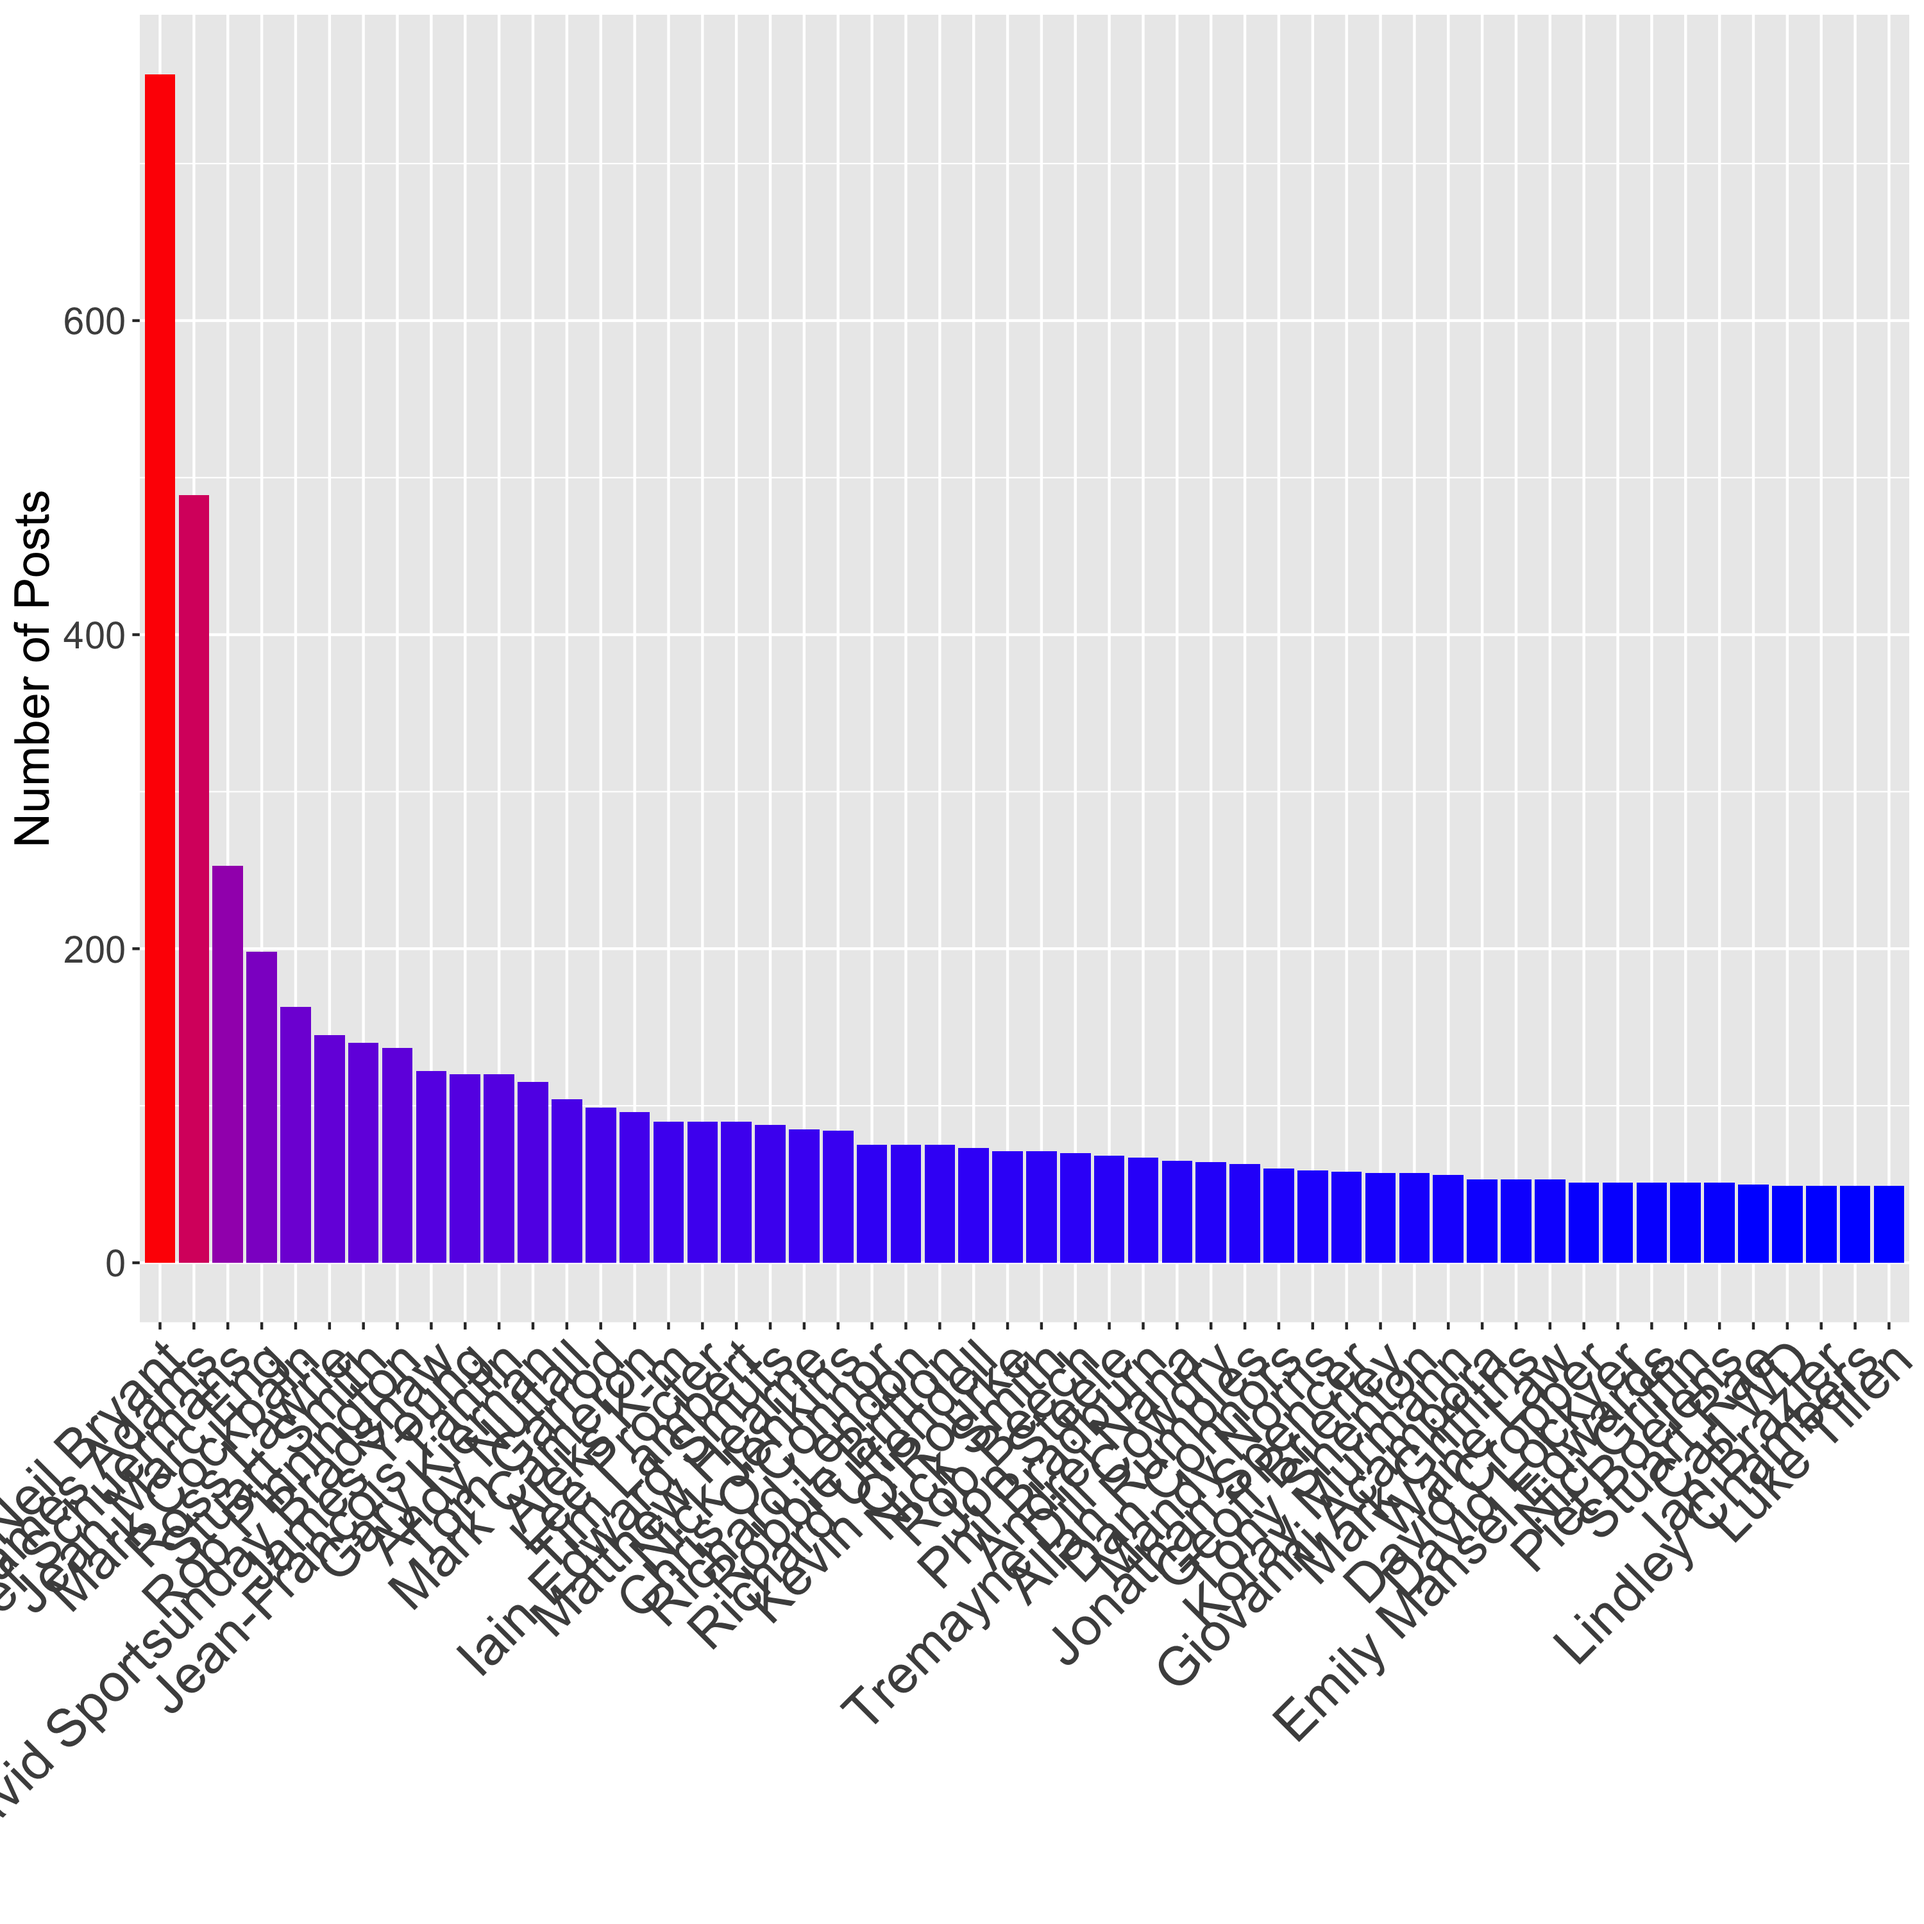
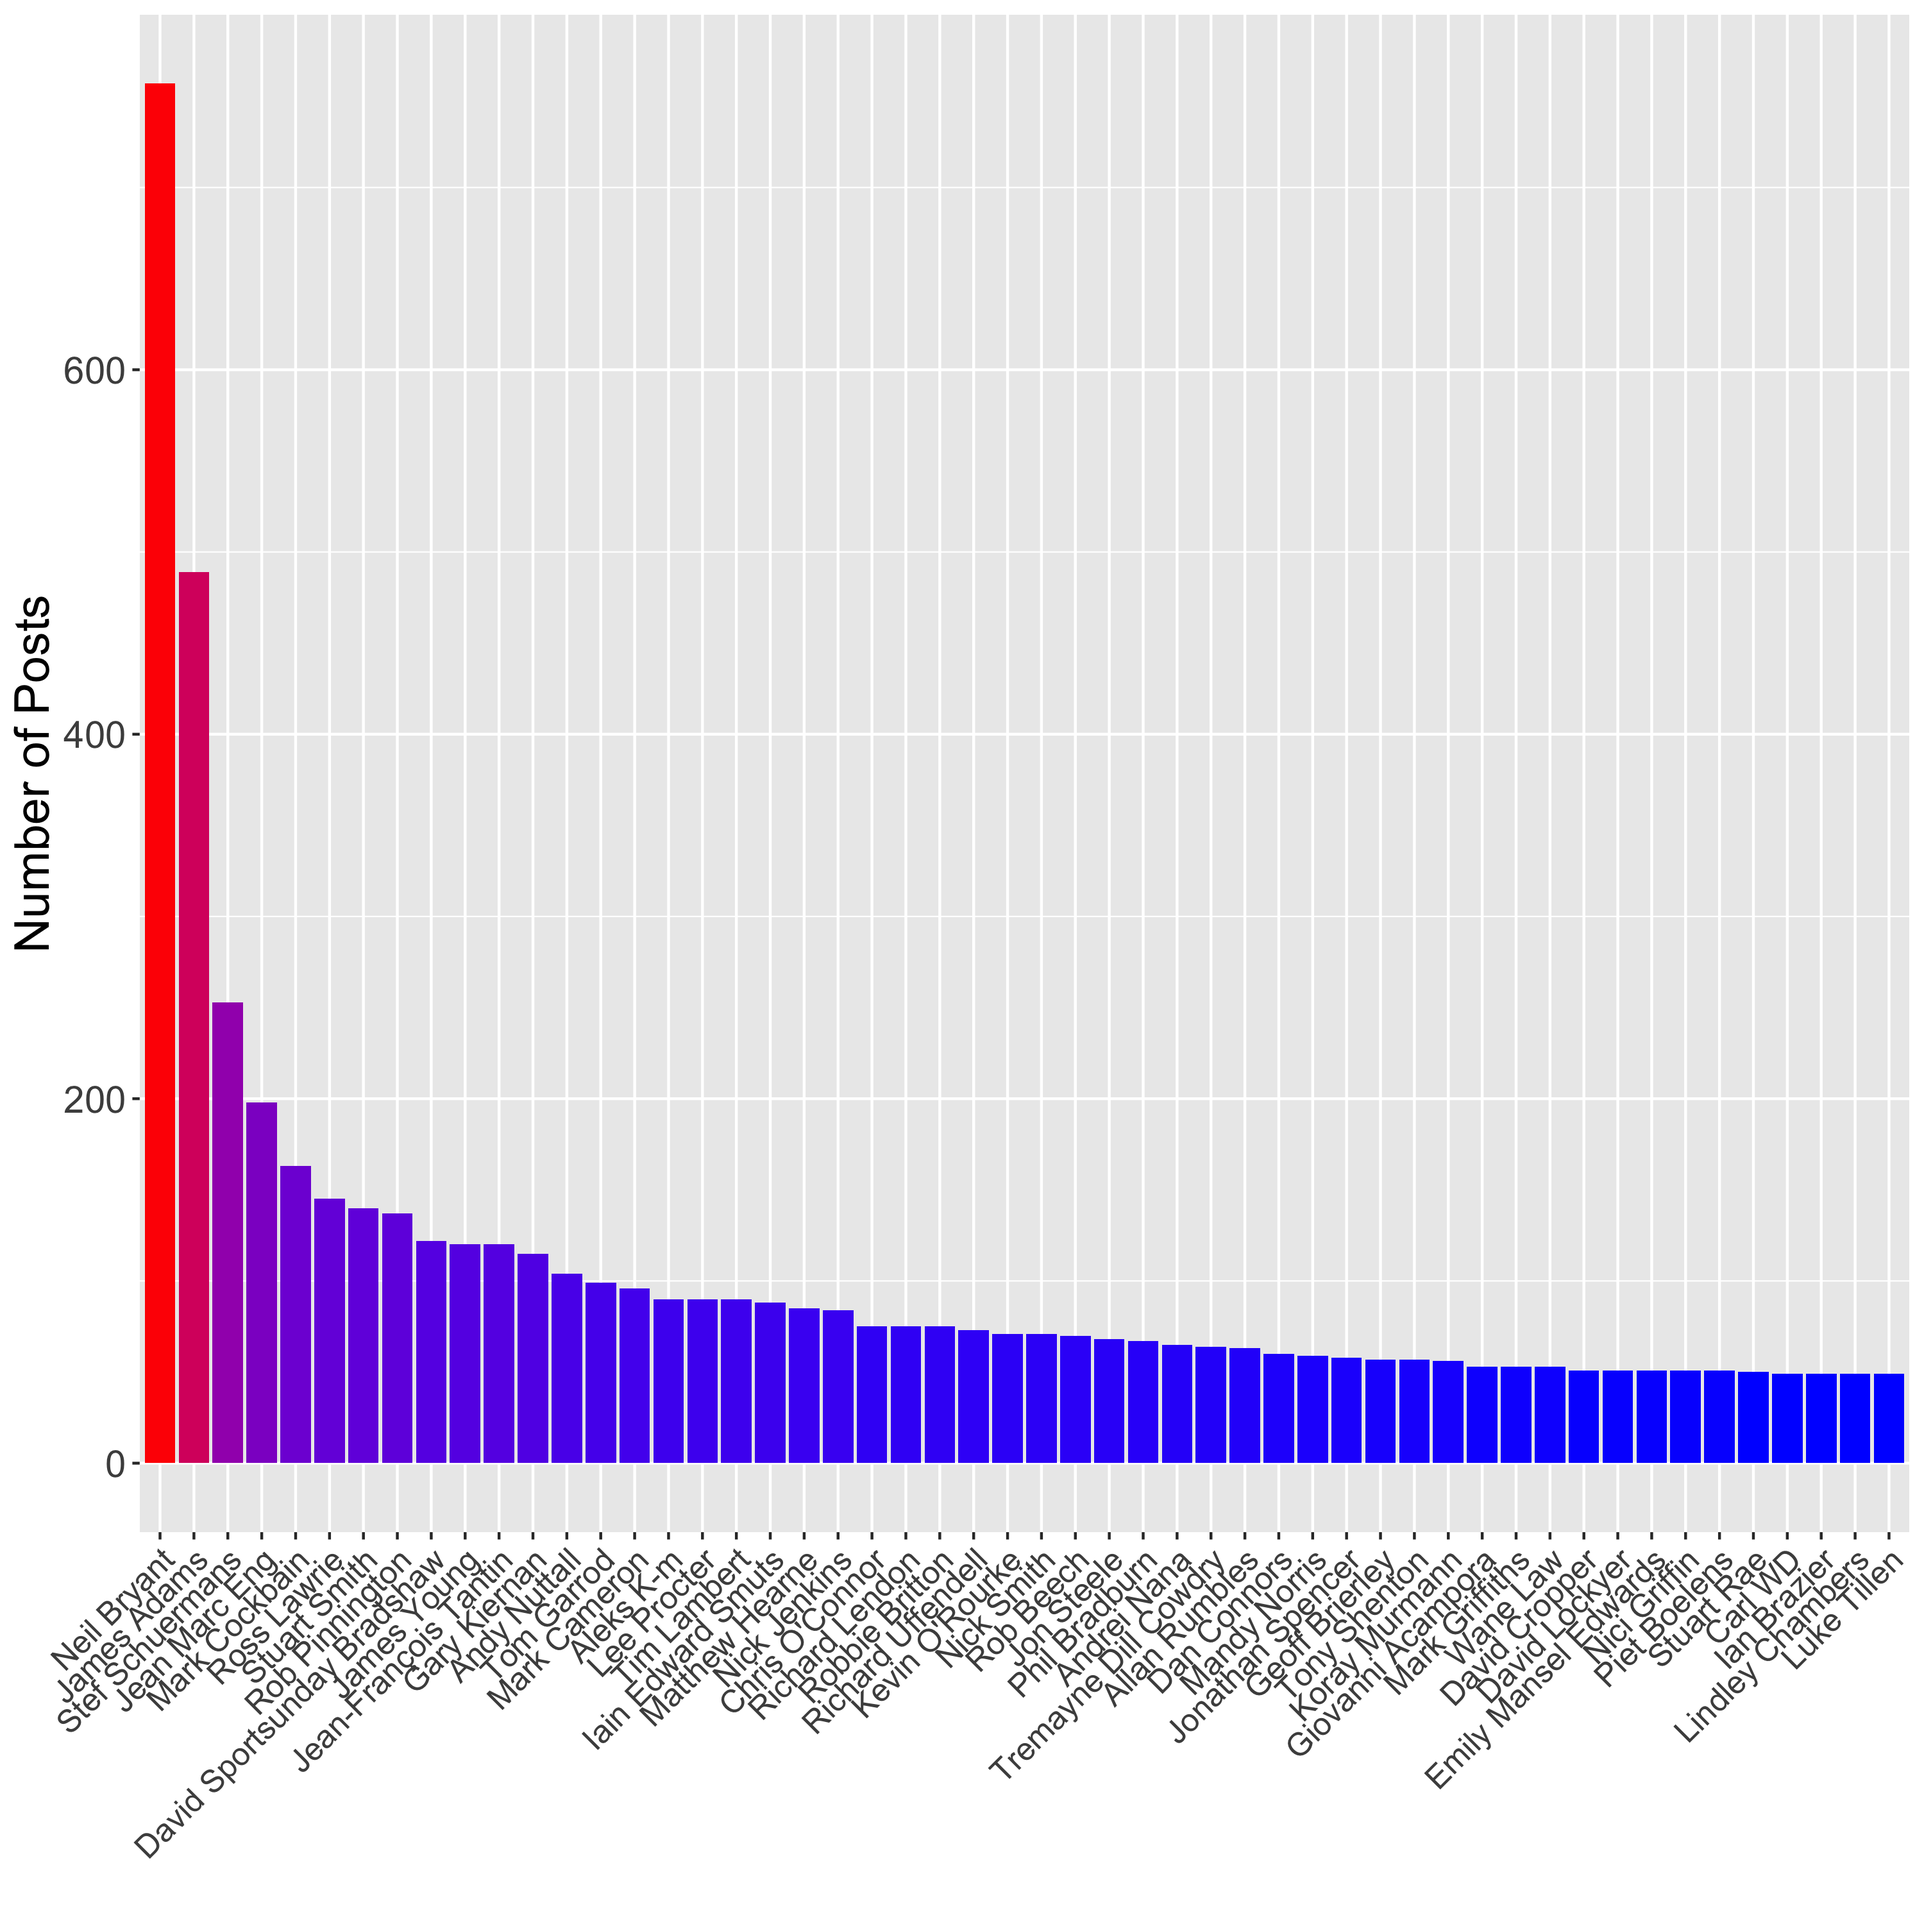
Changed the top contributors post so that the names were more readable

diff --git a/_posts/2017-04-15-Suunto-Or-Garmin.md b/_posts/2017-04-15-Suunto-Or-Garmin.md
@@ -227,7 +227,7 @@ ggplot(top_contributors,
   scale_fill_gradient(low="blue", high="red") +
   labs(x = "", y = "Number of Posts") +
   theme(axis.title  = element_text(size = 18),
-        axis.text.x = element_text(size = 20, angle = 45, hjust = 1),
+        axis.text.x = element_text(size = 12, angle = 45, hjust = 1),
         axis.text.y = element_text(size = 14),
         legend.position = "none")
 {% endhighlight %}
